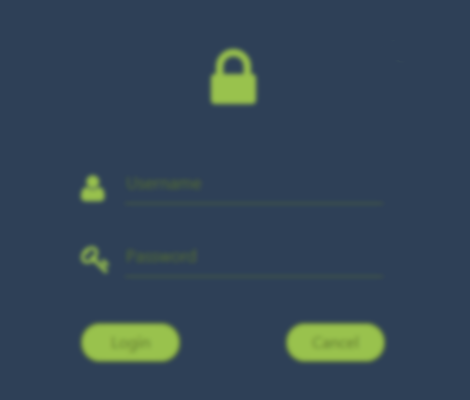
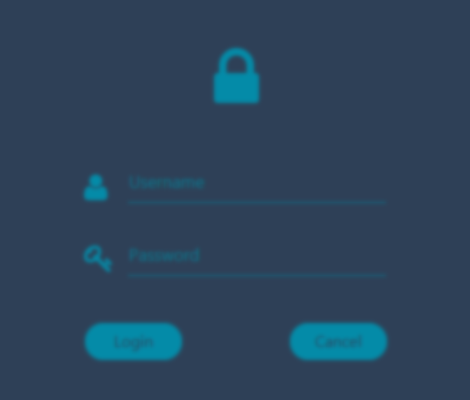
Colour-sceme changed. StringUtils removed magic numbers

diff --git a/src/client/presentation/css/generalStyleSheet.css b/src/client/presentation/css/generalStyleSheet.css
@@ -11,9 +11,6 @@ and open the template in the editor.
 * {
     -fx-primary : #2E4057;
     -fx-secondary : #048BA8;
-    -fx-dark : #2F2D2E;
-    -fx-orange : #F18F01;
-    -fx-green: #99C24D;
 }
 
 .glyph-icon
@@ -22,18 +19,18 @@ and open the template in the editor.
 }
 
 .button{
-    -fx-text-fill: derive(-fx-green, -40%);
-    -fx-background-color: -fx-green;
-    -fx-border-color: derive(-fx-green, -40%);
+    -fx-text-fill: -fx-primary;
+    -fx-background-color: -fx-secondary;
+    -fx-border-color: -fx-primary;
     -fx-border-radius: 20px;
     -fx-background-radius: 20px;
     -fx-font-size: 12pt;
 }
 
 .button:hover, .button:focused{
-    -fx-border-color: -fx-green;
-    -fx-background-color:derive(-fx-green, -40%);
-    -fx-text-fill: -fx-green;
+    -fx-border-color: -fx-secondary;
+    -fx-background-color: -fx-primary;
+    -fx-text-fill: -fx-secondary;
 }
 
 
@@ -42,7 +39,7 @@ and open the template in the editor.
 
 .jfx-spinner .arc 
 {
-    -fx-stroke: -fx-green;
+    -fx-stroke: -fx-secondary;
 }
 
 .wrong-credentials
@@ -53,15 +50,15 @@ and open the template in the editor.
 }
 
 .jfx-text-field, .jfx-password-field {
-    -fx-text-fill : derive(-fx-green, 20%);
-    -fx-prompt-text-fill: derive(-fx-green, -40%);
-    -jfx-focus-color: -fx-green;
-    -jfx-unfocus-color: derive(-fx-green, -40%);
+    -fx-text-fill : derive(-fx-secondary, 40%);
+    -fx-prompt-text-fill: derive(-fx-secondary, -10%);
+    -jfx-focus-color: -fx-secondary;
+    -jfx-unfocus-color: derive(-fx-secondary, -10%);
 }
 
 .jfx-text-field:focused, .jfx-password-field:focused {
-    -fx-prompt-text-fill: -fx-green;
-    -jfx-unfocus-color: derive(-fx-green, -40%);
+    -fx-prompt-text-fill: -fx-secondary;
+    -jfx-unfocus-color: derive(-fx-secondary, -20%);
 }
 
 /*Decorator*/
@@ -78,14 +75,14 @@ and open the template in the editor.
 }
 
 .jfx-decorator .jfx-decorator-title-container .jfx-decorator-text {
-    -fx-fill: -fx-green;
+    -fx-fill: -fx-secondary;
     -fx-font-size: 25;
 }
 
 .jfx-decorator .jfx-decorator-title-container .jfx-svg-glyph {
     -fx-shape: "M633,1C493.1,10.1,353.8,60.4,214.1,152.5c-69.4,45.7-141.5,105-195.7,160.9L.1,332.3l10,10.8c14,15.1,58.3,56.9,83.9,79.4C238.6,549.2,390.5,627.8,538.5,652.4c42.3,7,66,9,110.5,9,38.3.1,51.7-.7,84.5-4.9,100.6-12.9,198.5-48.2,296-106.8,87.6-52.6,176.7-128.7,242.9-207.5l7.8-9.3-1.9-2.2c-1.1-1.2-7.5-8.7-14.4-16.7C1152.8,184.1,1026.6,90.1,899.5,42.2,841.9,20.6,788.4,8.2,727,2.4,707.5.6,652.3-.2,633,1Zm42.1,58a291.28,291.28,0,0,1,153.4,62.7,273.23,273.23,0,0,1,73.4,91.6c9.1,18.4,13.7,30.4,18.7,48.6A266.13,266.13,0,0,1,916.9,414a261,261,0,0,1-32.4,66.5c-10.9,16.3-19.3,26.4-34.9,42-23.2,23.2-45,38.7-75.1,53.5-28,13.8-55,22.2-87.5,27.1-19.6,3-58,3.3-77.5.5-68-9.4-124.6-37.8-170.5-85.2-42.2-43.7-67.1-96.3-74.6-157.4-2-16.6-1.5-51.7,1.1-68,15.9-102.9,87.9-186.9,189-220.5,21.8-7.2,40.3-11.1,65.5-13.8C628,57.8,665.5,58.1,675.1,59ZM596.36,532V383.21h-150V280.48h150V131.65h100V280.48H846.75V383.21H696.36V532Z";
     -jfx-size: 25;
-    -fx-background-color: -fx-green;
+    -fx-background-color: -fx-secondary;
 }
 
 .jfx-decorator .button{
@@ -111,59 +108,59 @@ and open the template in the editor.
 }
 
 /* Dashboad */
-.mylistview .list-view {
+.list-view {
     -fx-background-color: -fx-secondary;
     -fx-padding : 0px;
     -fx-background-insets: 0;
 }
 
-.mylistview .list-view:selected{
+.list-view:selected{
     -fx-background-color: -fx-secondary;
     -fx-padding : 0px;
 }
 
-.mylistview .list-view .list-cell:hover {
-    -fx-background-color: derive(-fx-dark, -10%);
+.list-view .list-cell:hover {
+    -fx-background-color: derive(-fx-primary, -10%);
 }
 
-.mylistview .list-view .list-cell:selected {
-    -fx-background-color: -fx-dark;
+.list-view .list-cell:selected {
+    -fx-background-color: -fx-primary;
 }
 
-.mylistview .list-view .list-cell {
-    -fx-background-color: derive(-fx-dark, -40%);
-    -fx-text-fill: -fx-green;
+.list-view .list-cell {
+    -fx-background-color: derive(-fx-primary, -40%);
+    -fx-text-fill: white;
 }
 
-.mylistview .list-view .label {
-    -fx-text-fill: -fx-green;
+.list-view .label {
+    -fx-text-fill: -fx-secondary;
 }
 
-.mylistview .list-view .jfx-rippler {
+.list-view .jfx-rippler {
     -jfx-rippler-fill: -fx-secondary;
 }
 
 .mylistview{
-    -fx-border-color:-fx-dark;
+    -fx-border-color:-fx-primary;
 }
 
 /* The main scrollbar CSS class of ListView */
 .scroll-bar:horizontal ,
 .scroll-bar:vertical{
-    -fx-background-color:-fx-dark;
+    -fx-background-color:-fx-primary;
 
 }
 
 /* The increment and decrement button CSS class of scrollbar */
-.increment-button ,.mylistview .decrement-button {
+.increment-button ,.decrement-button {
     -fx-background-color:transparent;
 }
 
 /* The main scrollbar **track** CSS class  */
 .scroll-bar:horizontal .track ,
 .scroll-bar:vertical .track{
-    -fx-background-color: -fx-dark;
-    -fx-border-color:-fx-dark;
+    -fx-background-color: -fx-primary;
+    -fx-border-color:-fx-primary;
     -fx-background-radius: 0em;
 }
 
@@ -186,7 +183,7 @@ and open the template in the editor.
 .scroll-bar:horizontal:pressed .track ,
 .scroll-bar:vertical:hover .track,
 .scroll-bar:vertical:pressed .track{
-    -fx-background-color: -fx-dark;
+    -fx-background-color: -fx-primary;
 
     -fx-opacity: 0.2;
     -fx-background-radius: 0em;
@@ -199,7 +196,7 @@ and open the template in the editor.
     -fx-background-color: derive(-fx-secondary, 20%);
 }
 
-.increment-button:hover ,.mylistview .decrement-button:hover {
+.increment-button:hover ,.decrement-button:hover {
     /*-fx-background-color: derive(-fx-secondary, 20%);*/
     /*-fx-border-color: derive(-fx-secondary, 20%);*/
 }

diff --git a/src/client/presentation/utils/StringUtils.java b/src/client/presentation/utils/StringUtils.java
@@ -14,6 +14,9 @@ import java.util.List;
  */
 public class StringUtils
 {
+    private static final int BOLD_ASCII_OFFSET_LOWERCASE = 120205;
+    private static final int BOLD_ASCII_OFFSET_UPPERCASE = 119743;
+    
     public static String getBoldString(String s)
     {
         List<Character> input = Chars.asList(s.toCharArray());
@@ -22,11 +25,11 @@ public class StringUtils
         {
             if (Character.isLowerCase(input.get(i)))
             {
-                sb.append(Character.toChars(120205+input.get(i)));
+                sb.append(Character.toChars(BOLD_ASCII_OFFSET_LOWERCASE + input.get(i)));
             }
             else if (Character.isUpperCase(input.get(i)))
             {
-                sb.append(Character.toChars(119743+input.get(i)));
+                sb.append(Character.toChars(BOLD_ASCII_OFFSET_UPPERCASE + input.get(i)));
             }
             else
             {
